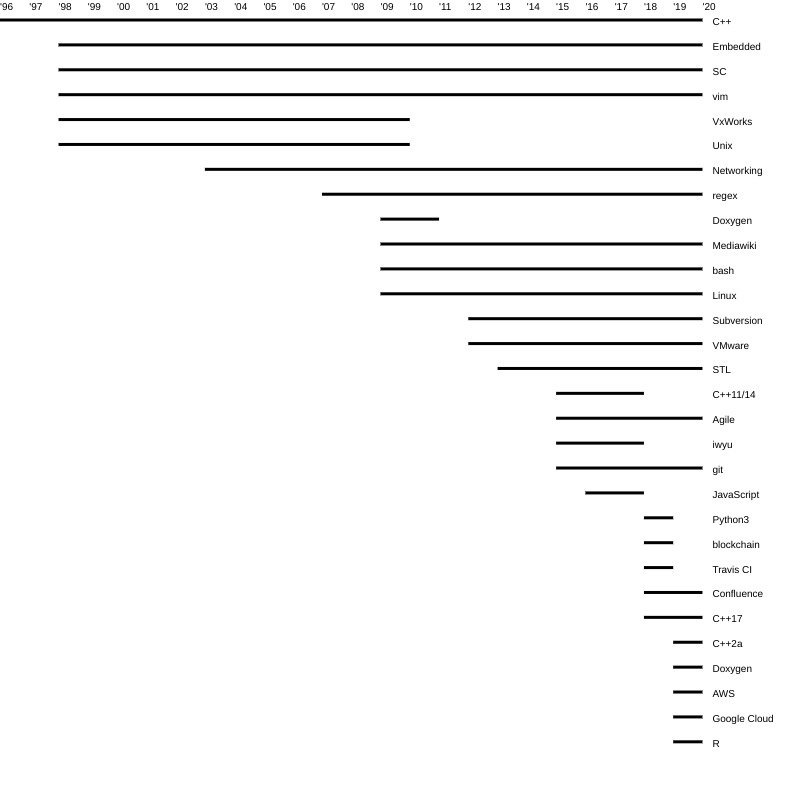
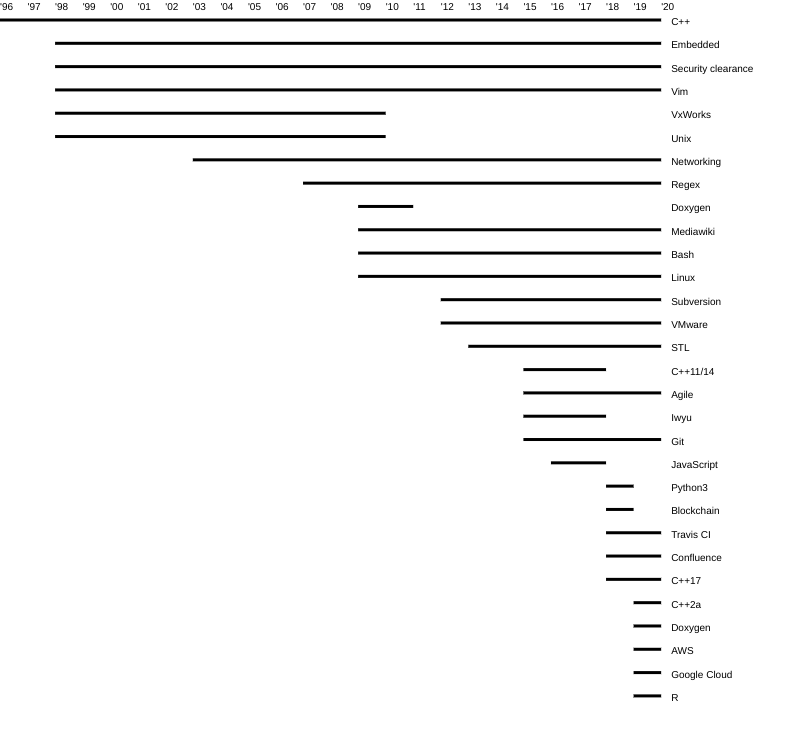
Capitalise

Changed region(s): [[0.0, 0.0, 0.9697, 0.9688]]

diff --git a/skills.html b/skills.html
@@ -15,27 +15,27 @@
 
 		["C++",			1996, now],
 		["Embedded",      	1998, now],
-		["SC",			1998, now],
-		["vim",			1998, now],
+		["Security clearance",	1998, now],
+		["Vim",			1998, now],
 		["VxWorks",		1998, 2009],
 		["Unix",		1998, 2009],
 		["Networking",  	2003, now],
-		["regex",		2007, now],
+		["Regex",		2007, now],
 		["Doxygen",		2009, 2010],
 		["Mediawiki",		2009, now],
-		["bash",		2009, now],
+		["Bash",		2009, now],
 		["Linux	",		2009, now],
 		["Subversion",  	2012, now],
 		["VMware",		2012, now],
 		["STL",			2013, now],
 		["C++11/14",    	2015, 2017],
 		["Agile",		2015, now],
-		["iwyu",		2015, 2017],
-		["git",			2015, now],
+		["Iwyu",		2015, 2017],
+		["Git",			2015, now],
 		["JavaScript",  	2016, 2017],
 		["Python3",		2018, 2018],
-		["blockchain",		2018, 2018],
-		["Travis CI",		2018, 2018],
+		["Blockchain",		2018, 2018],
+		["Travis CI",		2018, 2019],
 		["Confluence",		2018, now],
 		["C++17",		2018, now],
 		["C++2a",		2019, now],
@@ -83,7 +83,7 @@
 				year_max = skills[i][2]
 		}
 
-		const scale_x = .85 * canvas.width / (year_max - year_min);
+		const scale_x = .80 * canvas.width / (year_max - year_min);
 		const scale_y = .95 * canvas.height / skills.length;
 		const padding = 10;
 
